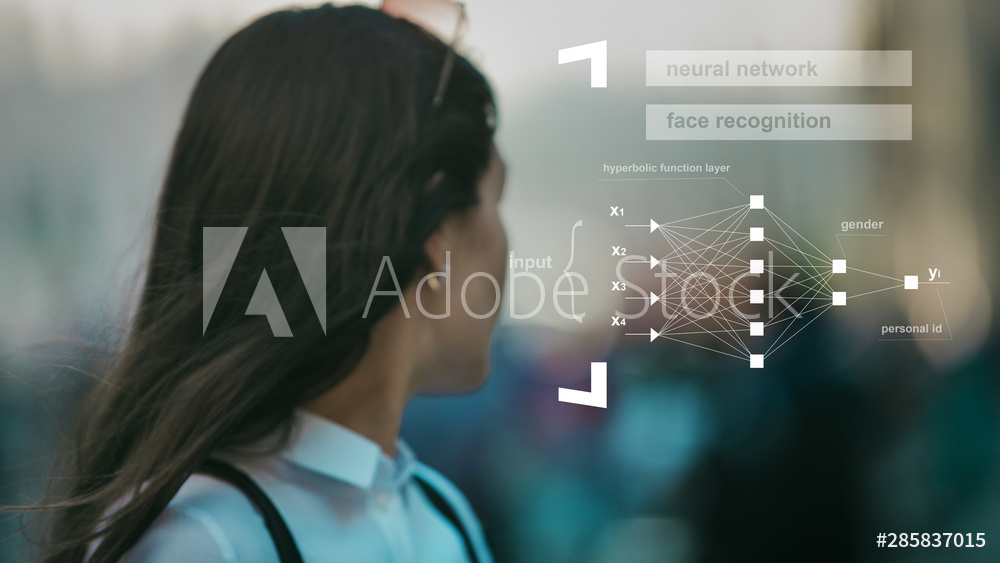
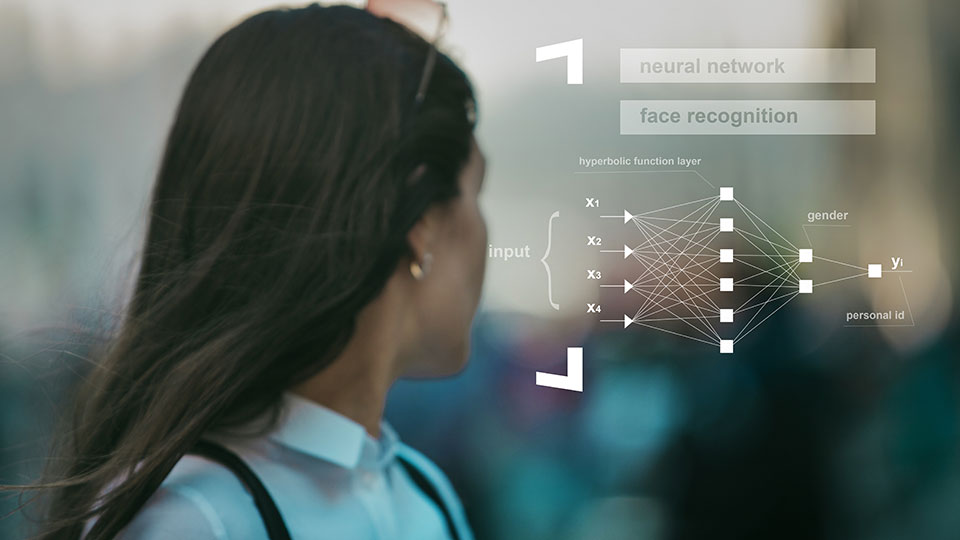
updated images with purchased ones

diff --git a/src/layouts/home.js b/src/layouts/home.js
@@ -130,7 +130,7 @@ const home = ({ data }) => {
             className="parallax-title"
             layers={[
               {
-                image: "/uploads/aiandyou1.jpeg",
+                image: pageContent.about.image,
                 amount: 0.5,
               },
             ]}
@@ -163,7 +163,7 @@ const home = ({ data }) => {
             className="parallax-title"
             layers={[
               {
-                image: "/uploads/aiandyou3.jpeg",
+                image: pageContent.mission.image,
                 amount: 0.5,
               },
             ]}
@@ -184,7 +184,7 @@ const home = ({ data }) => {
             className="parallax-title"
             layers={[
               {
-                image: "/uploads/aiandyou8.jpeg",
+                image: pageContent.approach1.image,
                 amount: 0.5,
               },
             ]}
@@ -224,7 +224,7 @@ const home = ({ data }) => {
             className="parallax-title"
             layers={[
               {
-                image: "/uploads/aiandyou4.jpeg",
+                image: pageContent.story.image,
                 amount: 0.5,
               },
             ]}
@@ -258,7 +258,7 @@ const home = ({ data }) => {
             className="parallax-title"
             layers={[
               {
-                image: "/uploads/aiandyou6.jpeg",
+                image: pageContent.communities.image,
                 amount: 0.5,
               },
             ]}
@@ -300,19 +300,23 @@ export const pageQuery = graphql`
             }
             about {
               title
+              image
               prose
             }
             approach1 {
               title
+              image
               prose
             }
             approach2
             mission {
               title
+              image
               prose
             }
             story {
               title
+              image
               prose
             }
             leadership {
@@ -322,6 +326,7 @@ export const pageQuery = graphql`
             }
             communities {
               title
+              image
               prose
             }
             aside1 {

diff --git a/src/pages/index.md b/src/pages/index.md
@@ -13,6 +13,7 @@ intro:
     The long-term impact of AI on communities of color is unknown. Conversations about AI are absent in the communities most directly affected by automation and other AI tools.
 about:
   title: About AI and You
+  image: "/uploads/aiandyou1.jpeg"
   prose:
     "AIandYou.org is a U.S. based non-profit creating opportunities for communities
     of color and women to learn about Artificial Intelligence (AI) through local outreach,
@@ -36,6 +37,7 @@ aside1:
     2019
 mission:
   title: Mission
+  image: "/uploads/aiandyou3.jpeg"
   prose:
     "AIandYou.org is committed to educating communities of color about AI and
     supporting diverse AI leaders.  \n\nAll communities benefit from understanding
@@ -44,6 +46,7 @@ mission:
     AI affinity groups_\n"
 approach1:
   title: Approach
+  image: "/uploads/aiandyou8.jpeg"
   prose: |
     ### Train the Trainer
     AIandYou.org partners with national and local advocacy organizations to create community events including, but not limited to:
@@ -81,6 +84,7 @@ approach2: |
   - NHCSL (National Hispanic Caucus of State Legislators)
 story:
   title: The Story
+  image: "/uploads/aiandyou4.jpeg"
   prose:
     "Susan Gonzales, CEO, worked closely with AI engineers on the Accessibility
     and Social Good teams at Facebook.  Susan experienced the positive outcomes of
@@ -111,6 +115,7 @@ leadership:
     Listen to The All Turtles Podcast Episode 51: [Startup communication and outreach with Susan Gonzales](https://www.all-turtles.com/podcast/the-all-turtles-podcast-episode-51-startup-communication-and-outreach-with-susan-gonzales/)
 communities:
   title: AI and Communities of Color
+  image: "/uploads/aiandyou6.jpeg"
   prose: |
     ### McKinsey & Company - Blacks in the fast-food, retail and customer-service
     industries — especially those in "support roles" like cashiers, office clerks,
